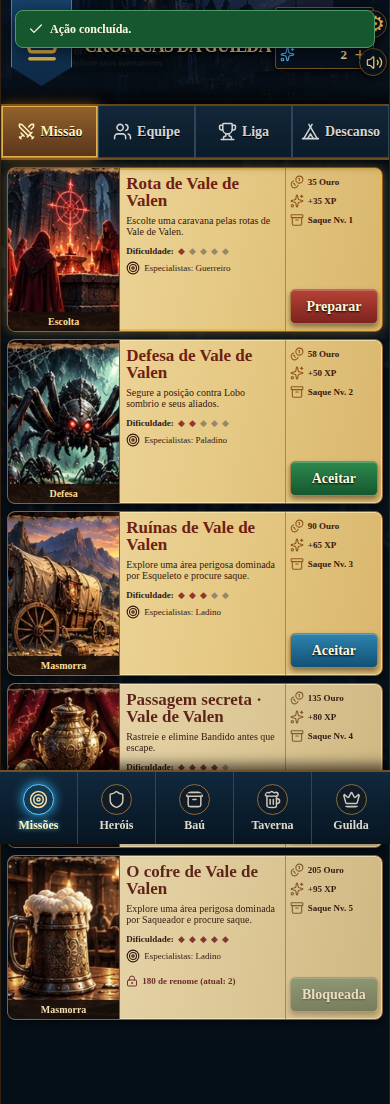
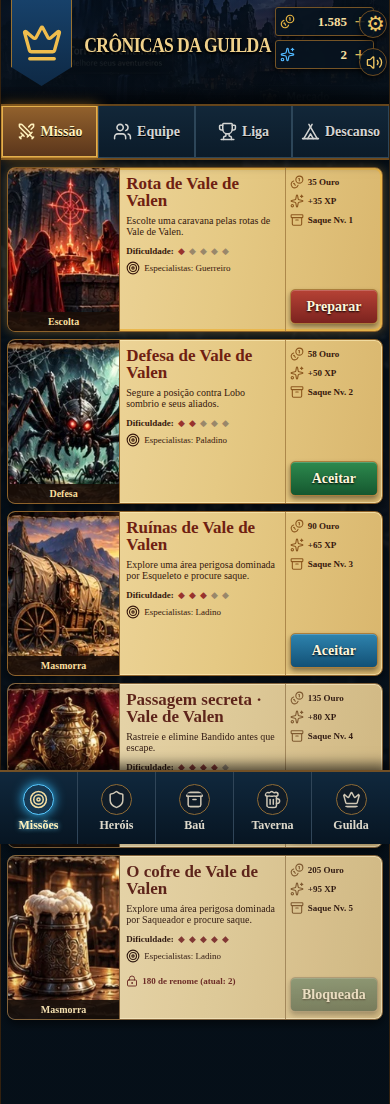
Remove mensagens verdes de ação concluída
Remove toasts verdes de sucesso; mantém apenas avisos de erro/conflito.

Changed region(s): [[0.0308, 0.0, 0.9846, 0.0616]]

diff --git a/app/game-client.tsx b/app/game-client.tsx
@@ -720,7 +720,6 @@ export default function Game() {
   const [save,setSave] = useState<Save | null>(null);
   const [busy,setBusy] = useState(false);
   const [error,setError] = useState("");
-  const [flash,setFlash] = useState("");
   const [screen,setScreen] = useState<Screen>("mission");
   const [selectedMissionId,setSelectedMissionId] = useState("");
   const [team,setTeam] = useState<string[]>([]);
@@ -754,17 +753,7 @@ export default function Game() {
       const result = updateLocalCampaign(current.revision,action);
       const next: Save = {state:result.state,revision:result.revision};
       hydrate(next);
-      if (result.conflict) setFlash("A campanha mudou em outra aba. Estado atualizado.");
-      else {
-        const names: Partial<Record<Action["type"],string>> = {
-          mission:"Expedição enviada.", rest:"Guilda descansada.", "train-hero":"Treino concluído.",
-          hire:"Novo herói recrutado.", buy:"Item comprado.", sell:"Item vendido.", equip:"Item equipado.",
-          unequip:"Item guardado.", "upgrade-hq":"Construção melhorada.", craft:"Item fabricado.",
-          "rival-battle":"Desafio resolvido.", "guild-raid":"Raid resolvida.", "negotiate-rival":"Negociação concluída.",
-          specialize:"Evolução aplicada.", "racial-specialize":"Evolução racial aplicada.", "story-step":"História avançou."
-        };
-        setFlash(names[action.type] || "Ação concluída.");
-      }
+      if (result.conflict) setError("A campanha mudou em outra aba. Estado atualizado.");
       if (action.type === "mission") {
         const newest = next.state.expeditions[next.state.expeditions.length-1];
         if (newest) setBattleExpeditionId(newest.id);
@@ -773,12 +762,6 @@ export default function Game() {
       setError(e instanceof Error ? e.message : "A ação não pôde ser concluída.");
     } finally { setBusy(false); }
   },[busy,hydrate]);
-
-  useEffect(() => {
-    if (!flash) return;
-    const timer = window.setTimeout(() => setFlash(""), 1800);
-    return () => window.clearTimeout(timer);
-  }, [flash]);
 
   const state = save?.state;
   const running = state ? activeExpeditions(state) : [];
@@ -803,14 +786,13 @@ export default function Game() {
     a.href=url; a.download="cronicas-da-guilda-backup.json"; a.click(); URL.revokeObjectURL(url);
   };
   const restore = async (file: File) => {
-    try { const next = importLocalCampaign(await file.text()); hydrate({state:next.state,revision:next.revision}); setFlash("Backup restaurado."); }
+    try { const next = importLocalCampaign(await file.text()); hydrate({state:next.state,revision:next.revision}); }
     catch(e){ setError(e instanceof Error ? e.message : "Backup inválido."); }
   };
 
   return <div className="app-shell">
     <TopBar state={state} goGuild={() => go("guild")} musicEnabled={musicEnabled} toggleMusic={toggleMusic} />
     {screen !== "guild" && <TopNav screen={screen} go={go} />}
-    {flash && <button className="flash" onClick={() => setFlash("")}><Check /> {flash}</button>}
     {error && <button className="error" onClick={() => setError("")}><X /> {error}</button>}
     <main className="game-content">
       {screen === "mission" && <MissionPage state={state} selectedId={selectedMission.id} selectMission={setSelectedMissionId} goTeam={() => go("team")} />}

diff --git a/app/ui.css b/app/ui.css
@@ -1194,7 +1194,7 @@ img{display:block;max-width:100%}
 .bottom-nav button[data-active="true"]{color:#fff1ba;text-shadow:0 0 5px #64cfff}
 .bottom-nav button[data-active="true"]>svg{color:#f5dda1;border-color:#5ac9ff;background:#163953;box-shadow:0 0 12px #35bfff}
 
-.flash,.error{
+.error{
   position:fixed;
   left:50%;
   top:10px;
@@ -1212,9 +1212,8 @@ img{display:block;max-width:100%}
   font-size:12px;
   font-weight:700;
 }
-.flash{background:#17572f;border:1px solid #4b9b62}
 .error{background:#832920;border:1px solid #d46656}
-.flash svg,.error svg{width:16px}
+.error svg{width:16px}
 
 .boot-screen{
   min-height:100svh;
